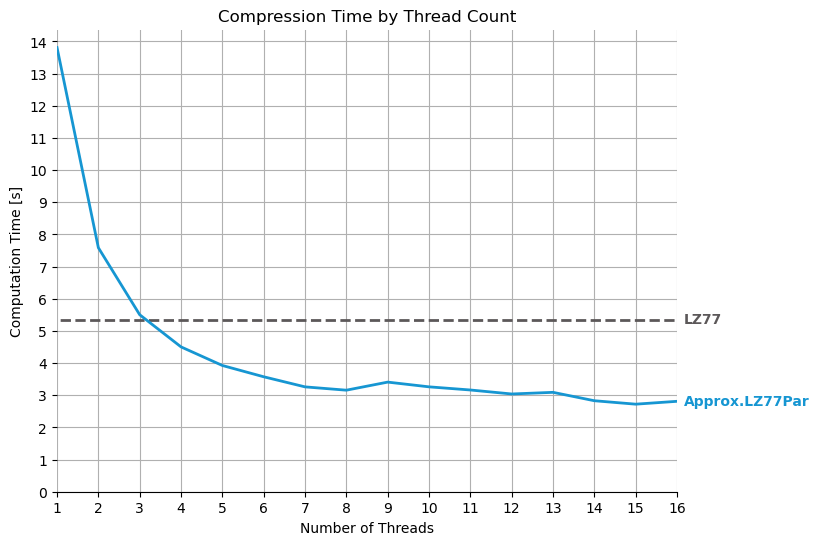
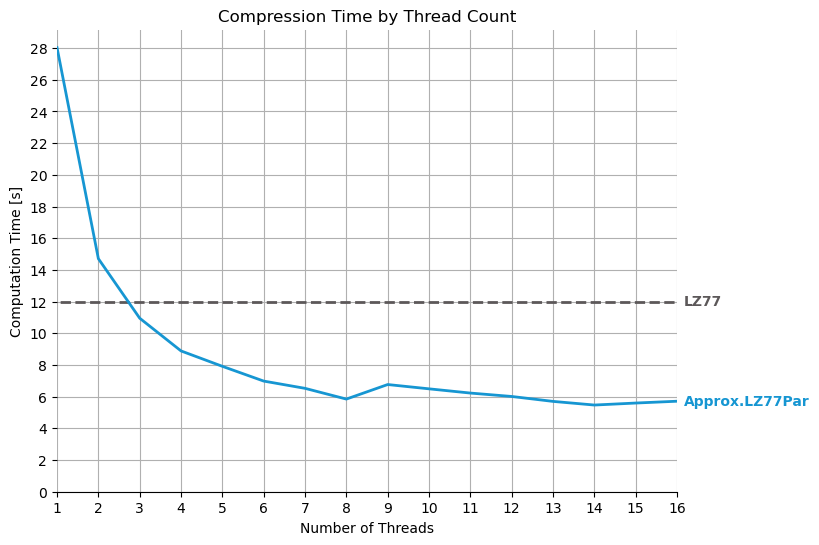
Updated Experiment-Data

Changed region(s): [[0.0305, 0.1248, 0.8852, 0.7486], [0.0305, 0.7798, 0.8242, 0.811], [0.0305, 0.0624, 0.8242, 0.0936]]

diff --git a/report/plots_progressive.py b/report/plots_progressive.py
@@ -63,9 +63,9 @@ def main():
     report_data_appr_par, filename_appr_par, algorithm_appr_par = read_data("report_progressive_Approx.LZ77Par.csv")
     
     
-    plot_line_graph(fig, ax, report_data_appr_seq, filename_appr_seq, algorithm_appr_seq, color_palette[0])
-    plot_line_graph(fig, ax, report_data_lz77, filename_lz77, algorithm_lz77, color_palette[4])
-    plot_line_graph(fig, ax, report_data_appr_par, filename_appr_par, algorithm_appr_par, color_palette[2])
+    plot_line_graph(fig, ax, report_data_appr_seq, filename_appr_seq, algorithm_appr_seq, color_palette[4])
+    plot_line_graph(fig, ax, report_data_lz77, filename_lz77, algorithm_lz77, color_palette[2])
+    plot_line_graph(fig, ax, report_data_appr_par, filename_appr_par, algorithm_appr_par, color_palette[0])
     
     plot_linear_regression(fig, ax, report_data_appr_seq[:, col_input_size]/(1024*1024), report_data_appr_seq[:, col_comp_time]/1000)
     plot_linear_regression(fig, ax, report_data_lz77[:, col_input_size]/(1024*1024), report_data_lz77[:, col_comp_time]/1000)
@@ -117,7 +117,7 @@ def main():
     ax.spines["bottom"].set_bounds(min(x_input_sizes), max(x_input_sizes))
     ax.set_xlim(min(x_input_sizes), max(x_input_sizes))
     ax.xaxis.set_ticks_position("bottom")    
-    ax.set_yticks(np.arange(0, max(y_comp_times)+1, 1))
+    ax.set_yticks(np.arange(0, max(y_comp_times)+1, 2))
     ax.legend(loc = 'upper left')
     
     plt.savefig("plots/progressive_stack_seq.png", bbox_inches='tight')
@@ -146,7 +146,7 @@ def main():
     ax.spines["bottom"].set_bounds(min(x_input_sizes), max(x_input_sizes))
     ax.set_xlim(min(x_input_sizes), max(x_input_sizes))
     ax.xaxis.set_ticks_position("bottom")    
-    ax.set_yticks(np.arange(0, max(y_comp_times)+0.5, 0.25))
+    ax.set_yticks(np.arange(0, max(y_comp_times)+0.5, 0.5))
     ax.legend(loc = 'upper left')
     
     plt.savefig("plots/progressive_stack_par.png", bbox_inches='tight')

diff --git a/report/plots_speedup.py b/report/plots_speedup.py
@@ -94,7 +94,7 @@ def main():
     ax.spines["bottom"].set_bounds(min(x_input_sizes), max(x_input_sizes))
     ax.set_xlim(min(x_input_sizes), max(x_input_sizes))
     ax.xaxis.set_ticks_position("bottom")    
-    ax.set_yticks(np.arange(0, max(y_comp_times)+1, 1))
+    ax.set_yticks(np.arange(0, max(y_comp_times)+1, 2))
     
     plt.savefig("plots/progressive_speedup.png", bbox_inches='tight')
     
@@ -138,7 +138,7 @@ def main():
     ax.spines["bottom"].set_bounds(min(x_input_sizes), max(x_input_sizes))
     ax.set_xlim(min(x_input_sizes), max(x_input_sizes))
     ax.xaxis.set_ticks_position("bottom")    
-    ax.set_yticks(np.arange(0, max(y_comp_times)+1, 1))
+    ax.set_yticks(np.arange(0, max(y_comp_times)+1, 2))
     ax.legend(loc = 'upper left')
     
     plt.savefig("plots/progressive_speedup_stack.png", bbox_inches='tight')

diff --git a/README.md b/README.md
@@ -8,27 +8,24 @@ Simple Collection of Prototypes of LZ-Algorithms:LZW, LZ77, Approx. LZ77 (seq+ p
 
 |File.Size|Algorithm|Ratio(Out/In)|Runtime[s]|Factors(#/In)|Memory([Byte]/In)|
 |---------------|---------------|:---------------:|:---------------:|:---------------:|:------------:|
-|dna.50MB|LZ77|48.67%|4.08|7.35%|20.00|
-|dna.50MB|Approx.LZ77|45.29%|10.24|11.32%|8.79|
-|dna.50MB|Approx.LZ77Par|45.29%|2.15|11.32%|6.67|
-|dblp.xml.50MB|LZ77|23.77%|3.27|4.64%|20.00|
-|dblp.xml.50MB|Approx.LZ77|28.24%|9.00|7.69%|4.21|
-|dblp.xml.50MB|Approx.LZ77Par|28.24%|1.62|7.69%|3.84|
+|dna.100MB|LZ77|48.31%|8.34|7.03%|20.00|
+|dna.100MB|Approx.LZ77|45.79%|21.06|11.10%|8.81|
+|dna.100MB|Approx.LZ77Par|45.79%|4.32|11.10%|6.47|
+|sources.100MB|LZ77|38.15%|7.55|7.98%|20.00|
+|sources.100MB|Approx.LZ77|41.57%|26.55|10.92%|6.17|
+|sources.100MB|Approx.LZ77Par|41.57%|4.64|10.92%|5.41|
+|english.100MB|LZ77|46.75%|8.87|8.56%|20.00|
+|english.100MB|Approx.LZ77|44.33%|30.53|11.08%|8.78|
+|english.100MB|Approx.LZ77Par|44.33%|5.06|11.08%|5.91|
+|dblp.xml.100MB|LZ77|23.09%|6.88|4.63%|20.00|
+|dblp.xml.100MB|Approx.LZ77|27.28%|18.24|7.06%|4.04|
+|dblp.xml.100MB|Approx.LZ77Par|27.28%|3.29|7.06%|3.85|
+|proteins.100MB|LZ77|69.21%|12.59|40.51%|20.00|
+|proteins.100MB|Approx.LZ77|70.48%|27.47|17.23%|10.78|
+|proteins.100MB|Approx.LZ77Par|70.48%|5.76|17.23%|9.45|
 |dummy.6018B|LZ77|16.85%|0.00|9.70%|20.00|
 |dummy.6018B|Approx.LZ77|20.41%|0.00|11.05%|8.24|
-|dummy.6018B|Approx.LZ77Par|20.41%|0.00|11.05%|7.90|
-|proteins.50MB|LZ77|75.86%|5.67|26.11%|20.00|
-|proteins.50MB|Approx.LZ77|72.29%|13.60|18.36%|16.55|
-|proteins.50MB|Approx.LZ77Par|72.29%|2.79|18.36%|10.09|
-|english.50MB|LZ77|43.60%|4.10|7.63%|20.00|
-|english.50MB|Approx.LZ77|41.38%|13.93|10.77%|5.89|
-|english.50MB|Approx.LZ77Par|41.38%|2.37|10.77%|5.69|
-|sources.50MB|LZ77|39.28%|3.72|7.75%|20.00|
-|sources.50MB|Approx.LZ77|42.79%|12.14|11.89%|6.77|
-|sources.50MB|Approx.LZ77Par|42.79%|2.17|11.89%|5.37|
-|pitches.50MB|LZ77|56.38%|5.26|27.06%|20.00|
-|pitches.50MB|Approx.LZ77|57.41%|12.19|19.62%|9.05|
-|pitches.50MB|Approx.LZ77Par|57.41%|2.42|19.62%|7.98|
+|dummy.6018B|Approx.LZ77Par|20.41%|0.00|11.05%|6.35|
 
 ## Thesis-Plan
 
